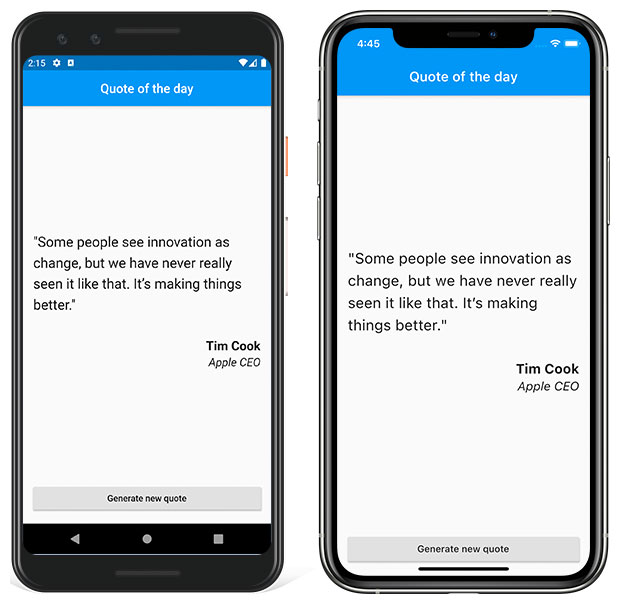
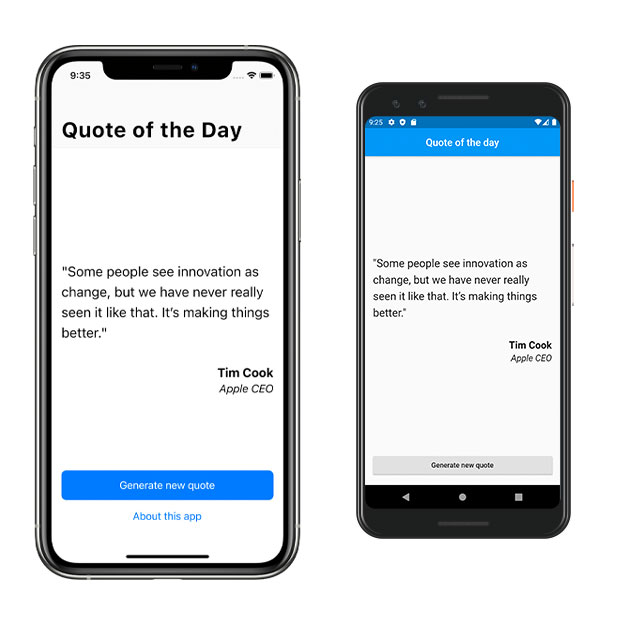
iOS interface added

diff --git a/lib/main.dart b/lib/main.dart
@@ -1,11 +1,98 @@
 import 'package:flutter/material.dart';
+import 'package:flutter/cupertino.dart';
 import 'quotes.dart';
+import 'dart:io' show Platform;
 
 void main() {
-  runApp(TheApp());
+  if (Platform.isAndroid) {
+    runApp(AndroidApp());
+  } else if (Platform.isIOS) {
+    runApp(AppleApp());
+  }
 }
 
-class TheApp extends StatelessWidget {
+class AppleApp extends StatelessWidget {
+  Widget build(BuildContext context) {
+    return CupertinoApp(
+      debugShowCheckedModeBanner: false,
+      home: AppleScreen(),
+    );
+  }
+}
+
+class AppleScreen extends StatefulWidget {
+  AppleScreen({Key key, this.title}) : super(key: key);
+  final String title;
+
+  @override
+  _AppleScreen createState() => _AppleScreen();
+}
+
+class _AppleScreen extends State<AppleScreen> {
+  dynamic theQuote = QuotesDB().giveMeQuote();
+
+  @override
+  Widget build(BuildContext context) {
+    return CupertinoPageScaffold(
+      child: NestedScrollView(
+        headerSliverBuilder: (BuildContext context, bool innerBoxIsScrolled) {
+          return <Widget>[
+            CupertinoSliverNavigationBar(
+              largeTitle: Text('Quote of the Day'),
+            )
+          ];
+        },
+        body: SafeArea(
+          child: Container(
+            padding: const EdgeInsets.all(16.0),
+            child: Column(
+              mainAxisAlignment: MainAxisAlignment.center,
+              mainAxisSize: MainAxisSize.max,
+              crossAxisAlignment: CrossAxisAlignment.stretch,
+              children: [
+                Spacer(flex: 1),
+                Text(
+                  "\"${theQuote['quote']}\"",
+                  style: new TextStyle(fontSize: 22.0, height: 1.5),
+                ),
+                SizedBox(height: 25),
+                Text(
+                  theQuote['author'],
+                  textAlign: TextAlign.right,
+                  style: new TextStyle(
+                      fontSize: 20.0, fontWeight: FontWeight.bold, height: 2),
+                ),
+                Text(
+                  theQuote['description'],
+                  textAlign: TextAlign.right,
+                  style: new TextStyle(
+                      fontSize: 18.0, fontStyle: FontStyle.italic),
+                ),
+                Spacer(flex: 1),
+                CupertinoButton.filled(
+                  key: null,
+                  onPressed: () {
+                    setState(() {
+                      theQuote = QuotesDB().giveMeQuote();
+                    });
+                  },
+                  child: Text("Generate new quote"),
+                ),
+                CupertinoButton(
+                  key: null,
+                  onPressed: () {},
+                  child: Text("About this app"),
+                ),
+              ],
+            ),
+          ),
+        ),
+      ),
+    );
+  }
+}
+
+class AndroidApp extends StatelessWidget {
   // This widget is the root of your application.
   @override
   Widget build(BuildContext context) {
